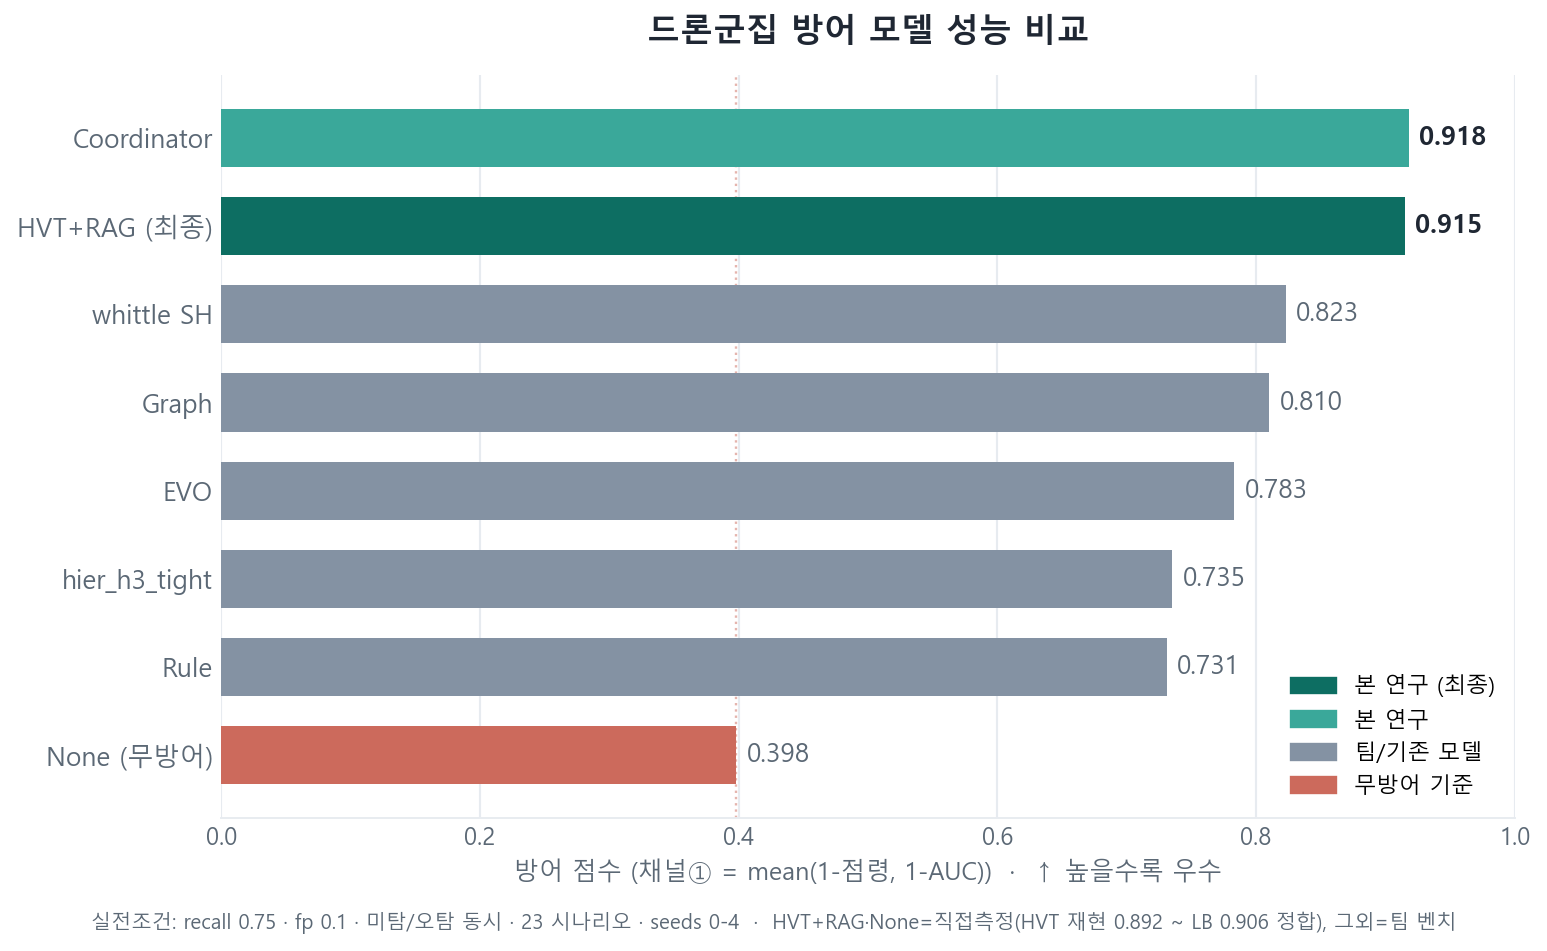
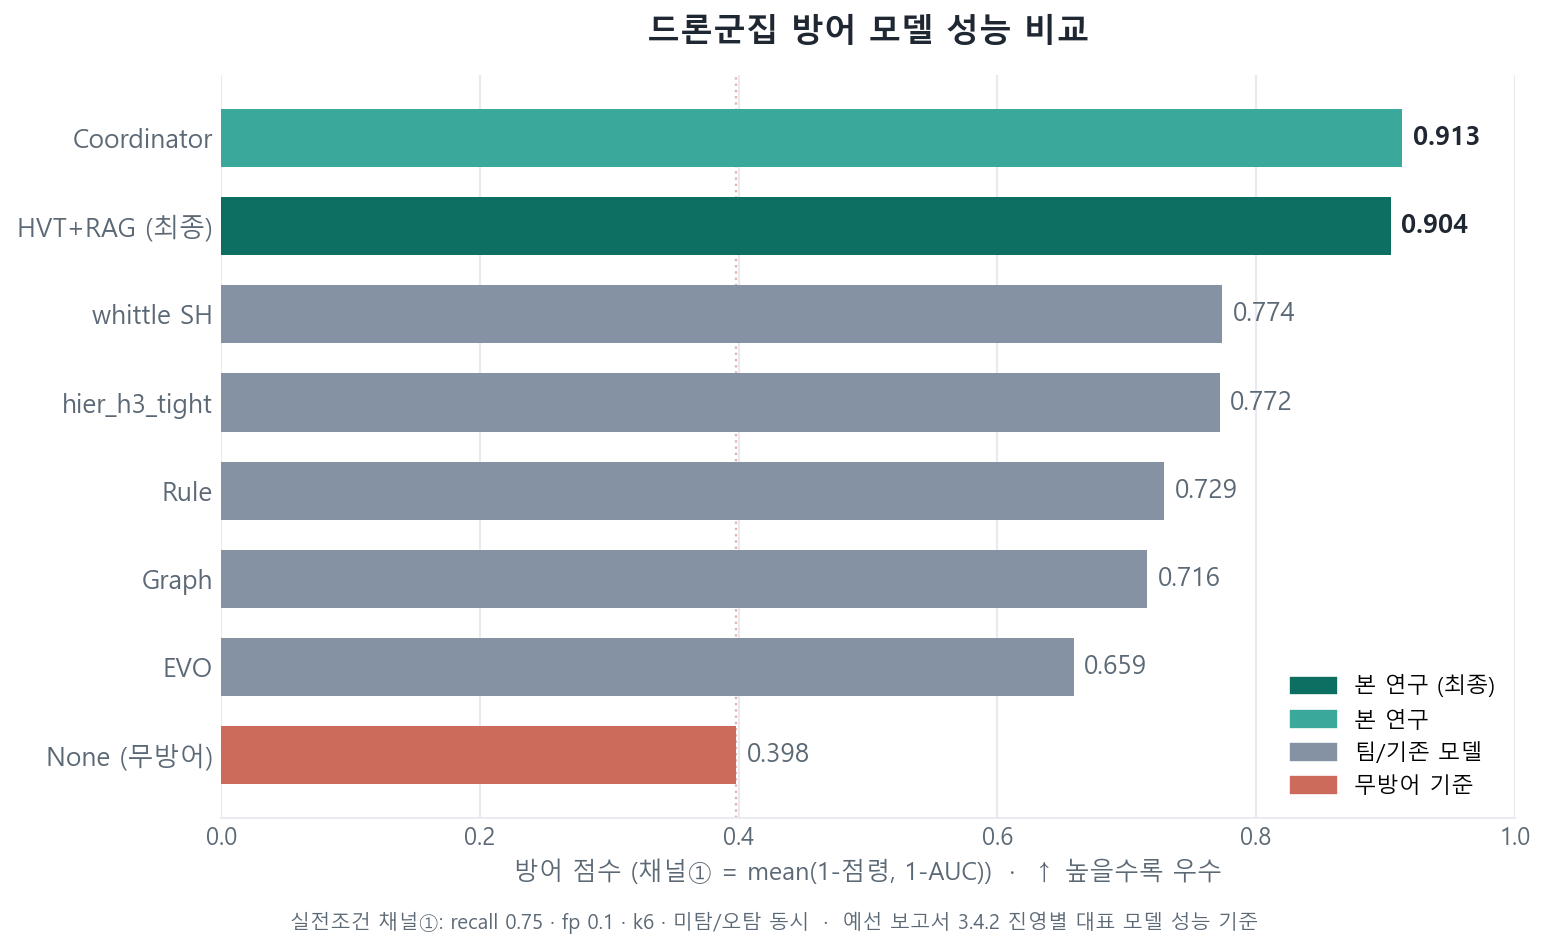
docs: model_comparison 차트 0.904 통일 + 유튜브 링크 교체
- make_model_comparison.py: 전 모델 수치를 예선 보고서 3.4.2 값으로 통일
    HVT+RAG 0.915→0.904, Coordinator 0.918→0.913, whittle 0.823→0.774,
    Graph 0.810→0.716, EVO 0.783→0.659, hier 0.735→0.772, Rule 0.731→0.729
  · model_comparison.png 재생성 (세 번째 수치 0.915 제거)
  · footnote를 "보고서 3.4.2 기준"으로
- 유튜브 링크 교체: w4Xyg006Jx0 → xjl6ewneKW8 (README·demo.md)

diff --git a/appendix/attack_rag/docs/diagrams/make_model_comparison.py b/appendix/attack_rag/docs/diagrams/make_model_comparison.py
@@ -12,13 +12,13 @@ INK,MUTED,GRID="#1f2733","#5b6875","#e7ebf0"
 OURS,OURS_HI,TEAM,NONE="#3aa89a","#0d6e62","#8492a3","#cc6a5c"
 
 # (모델, 점수, 진영, 출처)  실전조건 채널① recall0.75/fp0.1
-data=[("HVT+RAG (최종)",0.915,"ours_hi"),
-      ("Coordinator",   0.918,"ours"),
-      ("whittle SH",    0.823,"team"),
-      ("Graph",         0.810,"team"),
-      ("EVO",           0.783,"team"),
-      ("hier_h3_tight", 0.735,"team"),
-      ("Rule",          0.731,"team"),
+data=[("HVT+RAG (최종)",0.904,"ours_hi"),
+      ("Coordinator",   0.913,"ours"),
+      ("whittle SH",    0.774,"team"),
+      ("Graph",         0.716,"team"),
+      ("EVO",           0.659,"team"),
+      ("hier_h3_tight", 0.772,"team"),
+      ("Rule",          0.729,"team"),
       ("None (무방어)", 0.398,"none")]
 data.sort(key=lambda x:x[1])                     # 아래→위 오름차순
 labels=[d[0] for d in data]; vals=[d[1] for d in data]
@@ -48,8 +48,8 @@ ax.legend(handles=[Patch(color=OURS_HI,label="본 연구 (최종)"),
                    Patch(color=TEAM,label="팀/기존 모델"),
                    Patch(color=NONE,label="무방어 기준")],
           loc="lower right",frameon=False,fontsize=9.5)
-fig.text(0.5,-0.02,"실전조건: recall 0.75 · fp 0.1 · 미탐/오탐 동시 · 23 시나리오 · seeds 0-4  ·  "
-         "HVT+RAG·None=직접측정(HVT 재현 0.892 ~ LB 0.906 정합), 그외=팀 벤치",
+fig.text(0.5,-0.02,"실전조건 채널①: recall 0.75 · fp 0.1 · k6 · 미탐/오탐 동시  ·  "
+         "예선 보고서 3.4.2 진영별 대표 모델 성능 기준",
          ha="center",fontsize=8.6,color=MUTED)
 plt.tight_layout()
 plt.savefig("model_comparison.png",dpi=170,bbox_inches="tight",facecolor="white")

diff --git a/README.md b/README.md
@@ -11,7 +11,7 @@ CybORG DroneSwarm(CAGE Challenge 3) 위에서 드론 군집의 사이버 공격(
 
 ## Docs
 
-[데모 영상 (YouTube)](https://youtu.be/w4Xyg006Jx0) · [아키텍처](docs/architecture.md) ·
+[데모 영상 (YouTube)](https://youtu.be/xjl6ewneKW8) · [아키텍처](docs/architecture.md) ·
 [데모](docs/demo.md) · [시나리오](docs/scenarios.md) ·
 대안 모델 `src/counterpart_models/` · RAG 실험 `appendix/`
 

diff --git a/docs/demo.md b/docs/demo.md
@@ -56,7 +56,7 @@ cd appendix && python -m attack_rag.integration_test
 
 ## 데모 영상
 
-- 링크: https://youtu.be/w4Xyg006Jx0
+- 링크: https://youtu.be/xjl6ewneKW8
 - 구성: ① 노벨 공격 식별(RAG-A→RAG-B) → ② 방어 성능 비교(HVT vs HVT+RAG) → ③ 실전 대시보드(A17)
 
 ## 행동 단독 검증